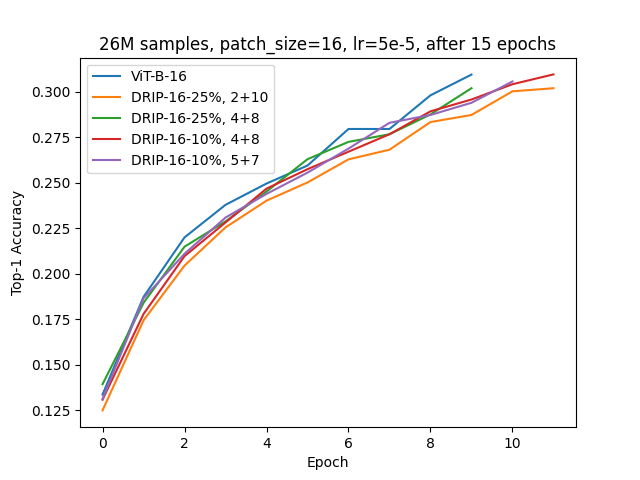
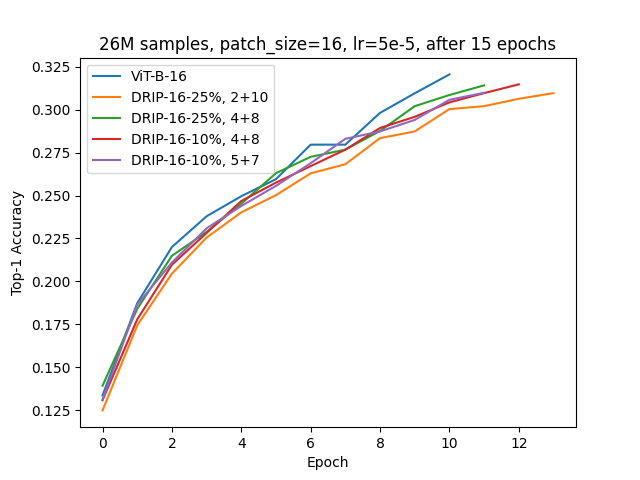
DRIP benefits from smaller LR for imagenet training

diff --git a/src/ImageNet_acc_vis.py b/src/ImageNet_acc_vis.py
@@ -66,16 +66,17 @@ def main():
     # }
     model2path = {
         #'ViT-B-16, 5e-5': 'ImageNet_ViT16.txt',
-        'ViT-B-16, 5e-4': 'less_aggressive_ViT.txt',
+        #'ViT-B-16, 5e-4': 'less_aggressive_ViT.txt',
         #'ViT-B-16, 3e-3': 'faithful_ImageNet_ViT16.txt',
         #'DRIP-16-25%, 4+8, 5e-4': 'less_aggressive_DRIP_4_8.txt',
         #'DRIP-16-25%, 2+10, 5e-4': 'less_aggressive_DRIP_2_10.txt',
         #"DRIP-16-25%, 2+10, 5e-5": 'ImageNet_DRIP_2_10.txt',
         #"DRIP-16-25%, 4+8, 5e-5": 'ImageNet_DRIP_4_8.txt',
-        'ViT-B-16, 5e-4, 384x384': 'AUG_22_384_resolution_ViT.txt',
-        'ViT-B-16 (new repo)': 'AUG_20_new_imagenet_codebase.txt',
-        'ViT-B-16 (new repo, recheck)': 'AUG_23_ViT_recheck.txt',
-        'DRIP-4X-16, 4+8 (new repo)': 'AUG_23_DRIP_4x_4_8.txt'
+        #'ViT-B-16, 5e-4, 384x384': 'AUG_22_384_resolution_ViT.txt',
+        'ViT-B-16, 3e-3, (new repo)': 'AUG_20_new_imagenet_codebase.txt',
+        'ViT-B-16, 3e-3, (new repo, recheck)': 'AUG_23_ViT_recheck.txt',
+        'DRIP-4X-16, 4+8, 3e-3 (new repo)': 'AUG_23_DRIP_4x_4_8.txt',
+        'DRIP-4X-16, 4+8, 3e-4 (new repo)': 'AUG_23_DRIP_4x_4_8_0.0003.txt'
     }
 
     model2acc = parse_all_accuracies(model2path)
